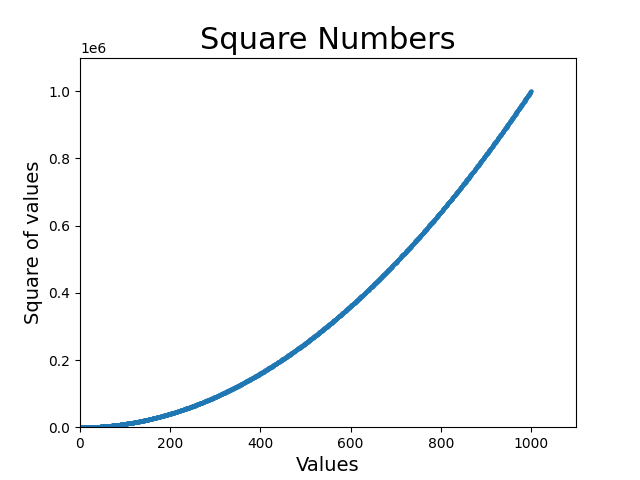
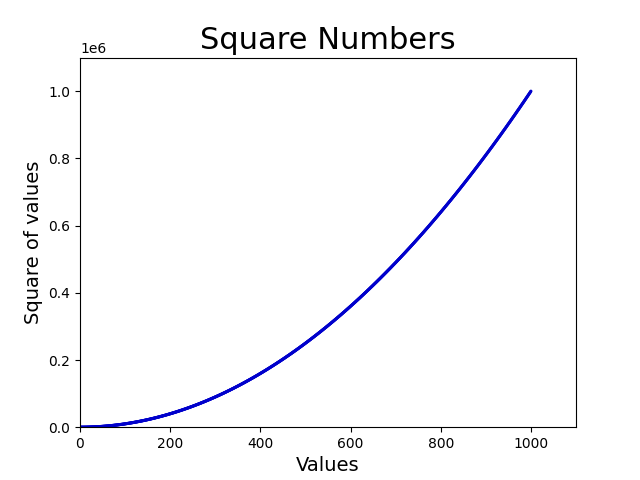
color modules

diff --git a/loop_scatter.py b/loop_scatter.py
@@ -3,8 +3,9 @@ import matplotlib.pyplot as plt
 x_values = list(range(1, 1001))
 y_values = [x**2 for x in x_values] #here we square a number and store it in y_values
 
-plt.scatter(x_values, y_values, c='cyan', edgecolor='none', s = 5) #we pass all the x and y values
-# edgecolor used to solid points and c is a color we can use
+plt.scatter(x_values, y_values, c=(0, 0, 0.8), edgecolor='none', s = 5) #we pass all the x and y values
+# edgecolor used to solid points and c is a color we can use #to define color in RGB color module 3 decimal points one for red and one for blue and one for green
+#using values between 0 and 1, values closer to 0 produce dark color and values closer to 1 produce light colors
 plt.title("Square Numbers", fontsize=22)
 plt.xlabel("Values", fontsize=14)
 plt.ylabel("Square of values", fontsize=14)
